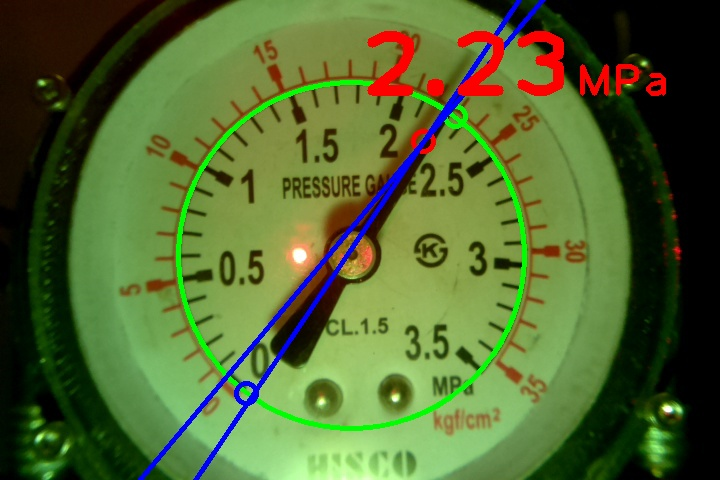
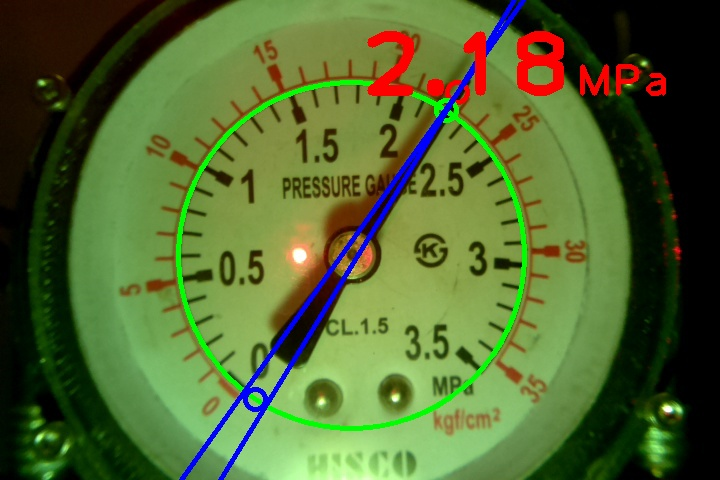
added bandpass filter for gauge isolation

Changed region(s): [[0.2139, 0.0, 0.7639, 1.0], [0.1833, 0.9688, 0.2139, 1.0]]

diff --git a/gauge_det.py b/gauge_det.py
@@ -17,6 +17,10 @@ try:
     import picamera.array
 except ImportError:
     "picamera.array not found"
+try:
+    from matplotlib import pyplot as plt
+except ImportError:
+    "matplotlib_pyplot not found"
 
 
 def error_output(img,err_msg="ERROR", height=480, width=720):
@@ -127,6 +131,142 @@ def find_contour(this_object, img, draw=False):
             cv2.drawContours(img, contours, this_contour.position, DEF.WHITE, 5, 2)
     return img
 
+
+def _datacheck_peakdetect(x_axis, y_axis):
+    if x_axis is None:
+        x_axis = range(len(y_axis))
+
+    if len(y_axis) != len(x_axis):
+        raise (ValueError,
+                'Input vectors y_axis and x_axis must have same length')
+
+    #needs to be a numpy array
+    y_axis = np.array(y_axis)
+    x_axis = np.array(x_axis)
+    return x_axis, y_axis
+
+
+# https://gist.github.com/sixtenbe/1178136
+def peakdetect(y_axis, x_axis = None, lookahead = 300, delta=0):
+    """
+    Converted from/based on a MATLAB script at:
+    http://billauer.co.il/peakdet.html
+
+    function for detecting local maximas and minmias in a signal.
+    Discovers peaks by searching for values which are surrounded by lower
+    or larger values for maximas and minimas respectively
+
+    keyword arguments:
+    y_axis -- A list containg the signal over which to find peaks
+    x_axis -- (optional) A x-axis whose values correspond to the y_axis list
+        and is used in the return to specify the postion of the peaks. If
+        omitted an index of the y_axis is used. (default: None)
+    lookahead -- (optional) distance to look ahead from a peak candidate to
+        determine if it is the actual peak (default: 200)
+        '(sample / period) / f' where '4 >= f >= 1.25' might be a good value
+    delta -- (optional) this specifies a minimum difference between a peak and
+        the following points, before a peak may be considered a peak. Useful
+        to hinder the function from picking up false peaks towards to end of
+        the signal. To work well delta should be set to delta >= RMSnoise * 5.
+        (default: 0)
+            delta function causes a 20% decrease in speed, when omitted
+            Correctly used it can double the speed of the function
+
+    return -- two lists [max_peaks, min_peaks] containing the positive and
+        negative peaks respectively. Each cell of the lists contains a tupple
+        of: (position, peak_value)
+        to get the average peak value do: np.mean(max_peaks, 0)[1] on the
+        results to unpack one of the lists into x, y coordinates do:
+        x, y = zip(*tab)
+    """
+    max_peaks = []
+    min_peaks = []
+    dump = []   #Used to pop the first hit which almost always is false
+
+    # check input data
+    x_axis, y_axis = _datacheck_peakdetect(x_axis, y_axis)
+    # store data length for later use
+    length = len(y_axis)
+
+
+    #perform some checks
+    if lookahead < 1:
+        raise ValueError, "Lookahead must be '1' or above in value"
+    if not (np.isscalar(delta) and delta >= 0):
+        raise ValueError, "delta must be a positive number"
+
+    #maxima and minima candidates are temporarily stored in
+    #mx and mn respectively
+    mn, mx = np.Inf, -np.Inf
+
+    #Only detect peak if there is 'lookahead' amount of points after it
+    for index, (x, y) in enumerate(zip(x_axis[:-lookahead],
+                                        y_axis[:-lookahead])):
+        if y > mx:
+            mx = y
+            mxpos = x
+        if y < mn:
+            mn = y
+            mnpos = x
+
+        ####look for max####
+        if y < mx-delta and mx != np.Inf:
+            #Maxima peak candidate found
+            #look ahead in signal to ensure that this is a peak and not jitter
+            if y_axis[index:index+lookahead].max() < mx:
+                max_peaks.append([mxpos, mx])
+                dump.append(True)
+                #set algorithm to only find minima now
+                mx = np.Inf
+                mn = np.Inf
+                if index+lookahead >= length:
+                    #end is within lookahead no more peaks can be found
+                    break
+                continue
+            #else:  #slows shit down this does
+            #    mx = ahead
+            #    mxpos = x_axis[np.where(y_axis[index:index+lookahead]==mx)]
+
+        ####look for min####
+        if y > mn+delta and mn != -np.Inf:
+            #Minima peak candidate found
+            #look ahead in signal to ensure that this is a peak and not jitter
+            if y_axis[index:index+lookahead].min() > mn:
+                min_peaks.append([mnpos, mn])
+                dump.append(False)
+                #set algorithm to only find maxima now
+                mn = -np.Inf
+                mx = -np.Inf
+                if index+lookahead >= length:
+                    #end is within lookahead no more peaks can be found
+                    break
+            #else:  #slows shit down this does
+            #    mn = ahead
+            #    mnpos = x_axis[np.where(y_axis[index:index+lookahead]==mn)]
+
+
+    #Remove the false hit on the first value of the y_axis
+    try:
+        if dump[0]:
+            max_peaks.pop(0)
+        else:
+            min_peaks.pop(0)
+        del dump
+    except IndexError:
+        #no peaks were found, should the function return empty lists?
+        pass
+
+    return [max_peaks, min_peaks]
+
+
+def bandpass_filter(image, peak, height=480,width=720, peak_width = 10):
+    mask = np.zeros_like(image)
+    for x, y in np.ndindex((height, width)):
+        if (image[x,y] < peak - peak_width/2) or (image[x,y] >  peak + peak_width/2):
+            mask[x,y] = 255
+    return mask
+
+
 class Gauge:
     x = 0  # these will hold the coordinates of the object "centers". see moments of inertia
     y = 0
@@ -231,7 +371,9 @@ def main():
     im = host.get_image()
     gray_im = cv2.cvtColor(im, cv2.COLOR_RGB2GRAY)
     prep = gray_im  # copy of grayscale image to be preprocessed for angle detection
+    prep_history = []
     mask = np.zeros_like(prep)
+    mask_bandpass = np.zeros_like(prep)
     canvas = np.zeros_like(im)  # output image
     np.copyto(canvas, im)
     blank = np.zeros_like(im)
@@ -243,7 +385,25 @@ def main():
 
     # prepare image for circle and line detection
     prep = preprocess_img(prep)
+    hist = cv2.calcHist([gray_im],[0],None,[256],[0,256])
+    # hist = plt.hist(gray_im.ravel(),256,[0,256])
+    # plt.show()
+    hist_list = list(hist)
+    [max, min] = peakdetect(hist, lookahead=10, delta=150)
+    # first element of max is the gauge needle (darkest peak excluding 0)
+    assert (max is not None and (max[0][0] > 0 and max[0][0] < 50))
+    print "max: ", max
+    #plt.savefig("hist.png")
+    # for x, y in np.ndindex((height,width)):
+    #     if (gray_im[x,y] > 45 - 20) and (gray_im[x,y] <  45 + 20):
+    #         mask_debug[x,y] = 255
+    # for x, y in np.ndindex((height,width)):
+    #     if (gray_im[x,y] > 120 - 20) and (gray_im[x,y] <  120 + 20):
+    #         mask_debug[x,y] = 255
+    mask_bandpass = bandpass_filter(gray_im,max[0][0], peak_width=15)
 
+    #cv2.imshow(window_name, mask_debug)
+    #cv2.waitKey(0)
 
     if not draw:
         cv2.imshow(window_name, prep)
@@ -269,9 +429,9 @@ def main():
             # mask=cv2.threshold(mask, 128, 255,cv2.THRESH_BINARY)
             prep = cv2.bitwise_and(prep, mask)
 
-    prep = find_contour(gauge, prep, draw=True)
+    #prep = find_contour(gauge, prep, draw=True)
     if hough_line:
-        lines = cv2.HoughLines(prep, 3, np.pi / 90, 100)
+        lines = cv2.HoughLines(prep, 4, np.pi / 360, 600)
 
     if hough_pline:
         plines = cv2.HoughLinesP(prep, 1, np.pi / 180, 20, None, minLineLength=height / 10, maxLineGap=1)
@@ -291,11 +451,15 @@ def main():
     print "radius: ", radius
     print "width: ", width
 
+    #prep=cv2.Canny(prep,25,155)
+    mask_bandpass = (255 - mask_bandpass)
+    prep=cv2.bitwise_and(mask_bandpass, prep)
+    prep_rgb=cv2.cvtColor(prep,cv2.COLOR_GRAY2BGR)
     if lines is None:
         error_output(error_screen, err_msg="no lines found")
         sys.exit("there are no lines inside the cicle")  # if no lines are found terminate the program here
     else:
-        for line in lines[:4]:
+        for line in lines[:10]:
             for (rho, theta) in line:
                 # blue for infinite lines (only draw the 2 strongest)
                 x0 = np.cos(theta) * rho
@@ -305,14 +469,14 @@ def main():
                 gauge.lines.append((pt1, pt2))
                 gauge.angles_in_radians.append(theta)
                 gauge.angles_in_degrees.append(rad_to_degrees(theta))
-                cv2.line(prep,pt1,pt2, (255, 0, 0), DEF.THICKNESS/2)
+                cv2.line(prep_rgb,pt1,pt2, (255, 0, 0), DEF.THICKNESS/2)
     number_of_angles = len(gauge.angles_in_degrees)
     angle_index = get_angles(gauge.angles_in_degrees)
     angle_set = set(tuple(sorted(l)) for l in angle_index)
     print "lengh: ", len(angle_index)
     print
     if len(gauge.lines) < 2:
-        error_output(error_screen, err_msg="unable to find needle form lines")
+        error_output(error_screen, err_msg="unable to find needle from lines")
         sys.exit("unable to find needle form lines")
 
     line_found = False
@@ -397,10 +561,24 @@ def main():
                 # red for line segments
                 cv2.line(canvas, (l[0], l[1]), (l[2], l[3]), (0, 0, 255), DEF.THICKNESS)
 
+    plt.subplot(221)
+    plt.imshow(cv2.cvtColor(im,cv2.COLOR_BGR2RGB))
+    plt.subplot(222)
+    plt.imshow(prep, 'gray')
+    plt.subplot(223)
+    plt.imshow(cv2.cvtColor(canvas,cv2.COLOR_BGR2RGB))
+    plt.subplot(224)
+    plt.plot(hist)
+    plt.xlim([0, 256])
+    plt.ylim([0,7500])
+    plt.show()
     host.write_to_file("Pressure: " + display_value + " MPa", "Temperature: " + str(host.read_temp()))
     # pass in tuples ("filename.ext", img_to_write)
-    host.write_image(("prep.jpg", prep), ("canvas.jpg", canvas), ("orig_im.jpg", im))
-    host.show_image(canvas)
+    #host.write_image(("prep.jpg", prep), ("canvas.jpg", canvas), ("orig_im.jpg", im))
+    prep = cv2.cvtColor(prep,cv2.COLOR_GRAY2BGR)
+    canvas = np.concatenate((prep, canvas), axis=1)
+    canvas = np.concatenate((prep_rgb, canvas), axis=1)
+    #host.show_image(canvas)
     #time.sleep(3)
 
     return True

diff --git a/defines.py b/defines.py
@@ -1,5 +1,6 @@
 #!/usr/bin/python2.7
 
+BLACK = (0, 0, 0)
 BLUE = (255, 0, 0)
 GREEN = (0, 255, 0)
 RED = (0, 0, 255)
@@ -10,7 +11,7 @@ AREA = 1000
 #(pressure in Mpa, angle in degrees)
 GAUGE_MIN = {'pressure':0.0, 'angle':45.0}
 GAUGE_MAX = {'pressure':3.5, 'angle':315.0}
-NEEDLE_SHAPE = 6.0
+NEEDLE_SHAPE = 4.0
 THICKNESS = 4
 WIDTH = 720
 MAX_DISTANCE = 200
